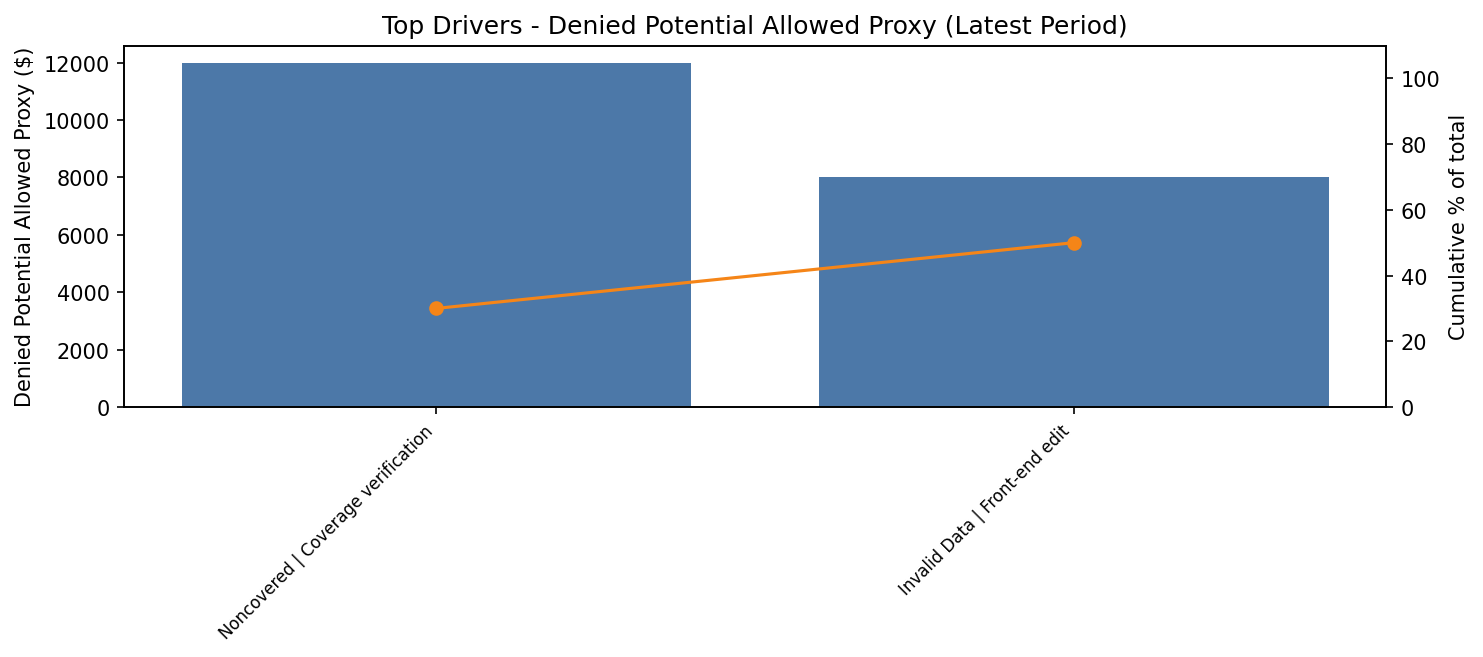
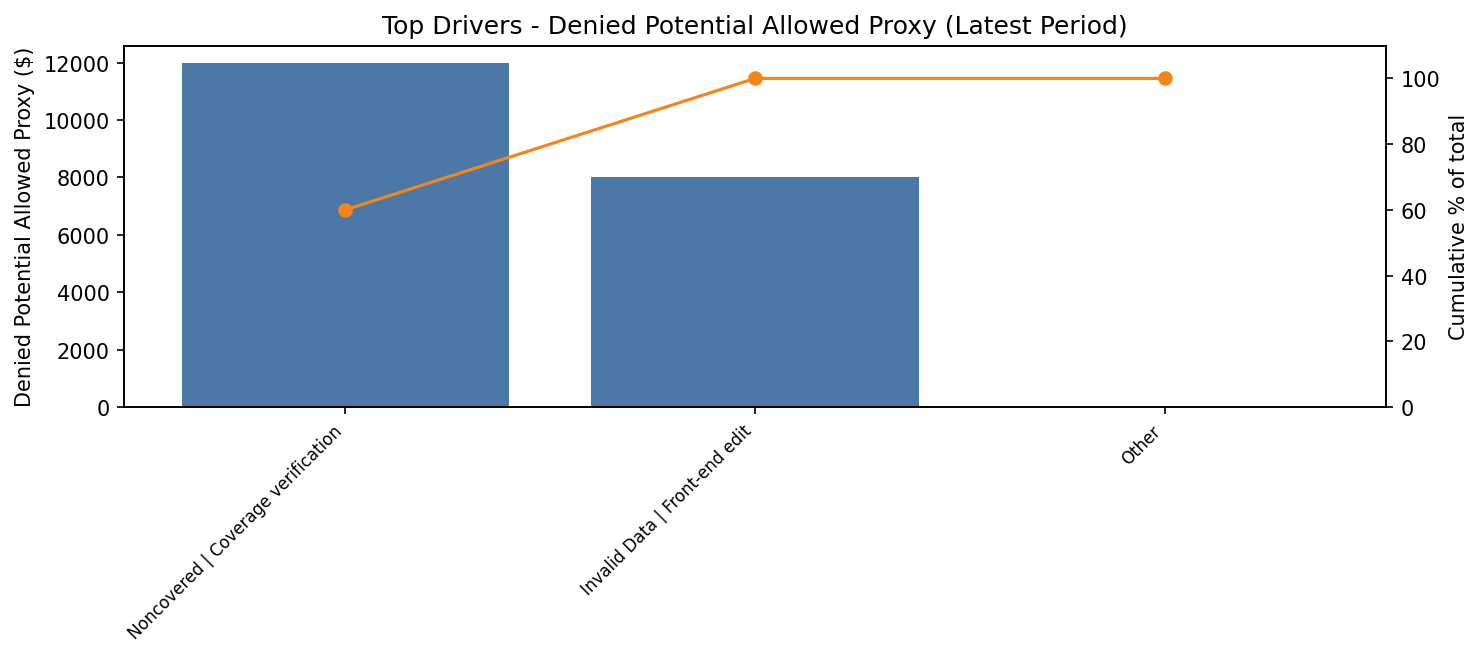
AN-RCM: truth stamp + triage status + pareto other + workqueue framing + case study one-pager

diff --git a/docs/executive_summary.md b/docs/executive_summary.md
@@ -1,25 +1,32 @@
 # Executive Summary (Latest Complete + Mature Week)
-Decision: Hold queue expansion; validate mix shift before actioning capacity.
-Confidence: Low - mix stability flagged, partial-week present, only 12 complete weeks of history.
+Decision: Hold queue expansion; validate volume shift before actioning capacity.
+Status: LIMITED_CONTEXT
+Reason: volume shift flagged (>15% vs rolling 8-week median); partial-week risk HIGH (5,612 vs 8,171, 68.7%); history tier 12w (LIMITED_CONTEXT); comparator present
+When LIMITED_CONTEXT: take reversible actions (validate, segment, triage) and defer staffing/process changes until comparator validity is confirmed.
+Partial-week risk: HIGH (5,612 vs 8,171, 68.7%)
+## Truth Stamp
+Anchor (week definition): Service date (clinical perspective).
+Maturity (LMW): We report only the latest complete week selected by the upstream "mature-only" filter; partial/incomplete weeks are excluded from KPIs and flagged when present.
+Interpretation note: Service-date trends reflect care timing and coding; posting-date trends may differ.
 What changed:
 - Observed Paid down $57.6K WoW
 - Payer Allowed down $55.1K WoW
 - Denial rate 13.4% (Delta +0.9pp)
 So what:
-- Mix instability plus partial-week activity make WoW signal fragile; treat KPIs as directional only.
+- Volume shift plus partial-week risk make WoW signal fragile; treat KPIs as directional only.
 Next 7 days:
-- Analytics owner: run NB-04 driver pareto; output: top contributors + concentration share.
-- Ops owner: hold queue expansion; output: capacity decision memo after mix validation.
-- RevCycle lead: review partial-week volume and comparator validity; output: go/no-go on queue expansion.
+- Analytics/BI: run NB-04 driver pareto; output: top contributors + concentration share.
+- Denials Management: hold queue expansion; output: capacity decision memo after volume validation.
+- Billing Ops: review partial-week volume and comparator validity; output: go/no-go on queue expansion.
 ## Data Stamp (Receipt)
 Model as_of_date (from marts): 2026-01-07
 Anchor week: 2010-12-20
 Comparator: 2010-12-13
 Included weeks: complete-week only (DS1)
 Service timeline (complete weeks): 2010-10-04 to 2010-12-20
+History tier: 12 complete weeks (LIMITED_CONTEXT)
 Maturity: 60
 Mix stability: CHECK SEGMENTS - Volume shift: Claim count 20.9% vs 8-week median
-History available: 12 complete weeks (target 52).
 ## Partial Week Banner
 WARNING: Partial-week activity detected (Start: 2010-12-27, Claims: 5,612).
 Exec KPIs and trends reflect complete + mature weeks only. Partial-week is excluded from KPI comparisons.
@@ -44,7 +51,7 @@ Trends include 4-week rolling average to reduce volatility.
 - Complete-week logic uses DS1 is_complete_week
 - Maturity gating is enforced upstream; report uses mart outputs
 - Proxy metric is directional ranking, not guaranteed recovery
-- Mix stability threshold: deviation >15% vs baseline median triggers "CHECK SEGMENTS"
+- Volume shift flagged when claim volume deviates >15% vs rolling 8-week median
 ## Data Notes
 - Synthetic dataset disclosure (CMS DE-SynPUF).
 - No protected health information (PHI).

diff --git a/docs/decision_memo_latest_complete_week.md b/docs/decision_memo_latest_complete_week.md
@@ -1,21 +1,26 @@
 # Decision Memo - Exec Overview (Latest Complete + Mature Week)
 
 ## Decision
-Decision: Hold queue expansion; validate mix shift before actioning capacity.
+Decision: Hold queue expansion; validate volume shift before actioning capacity.
+
+Status: LIMITED_CONTEXT
+Reason: volume shift flagged (>15% vs rolling 8-week median); partial-week risk HIGH (5,612 vs 8,171, 68.7%); history tier 12w (LIMITED_CONTEXT); comparator present
+When LIMITED_CONTEXT: take reversible actions (validate, segment, triage) and defer staffing/process changes until comparator validity is confirmed.
+Partial-week risk: HIGH (5,612 vs 8,171, 68.7%)
+
+## Truth Stamp
+Anchor (week definition): Service date (clinical perspective).
+Maturity (LMW): We report only the latest complete week selected by the upstream "mature-only" filter; partial/incomplete weeks are excluded from KPIs and flagged when present.
+Interpretation note: Service-date trends reflect care timing and coding; posting-date trends may differ.
 
 ## Why
 - Observed Paid down $57.6K WoW
 - Denial Rate 13.4% (Delta +0.9pp)
 
-## Options + tradeoffs
-- Option A (Hold + investigate): choose when mix stability flagged or partial-week present or comparator missing or history < 52; tradeoff is slower throughput until mix is validated.
-- Option B (Proceed to queue): choose when mix stability is OK, no partial-week activity, comparator present, and history is sufficient; tradeoff is exposure to false positives if instability emerges.
-- Option C (Escalate): choose when mix is CHECK SEGMENTS and partial-week present in the same week, or when comparator is missing and denial rate is rising; tradeoff is delaying queue until drivers are confirmed.
-
-## Owner checklist + outputs
-- Analytics owner: run NB-04 drivers; output: top contributors and concentration for this period.
-- Ops owner: decide queue capacity hold or release; output: capacity decision memo.
-- RevCycle lead: validate partial-week effect and comparator validity; output: go/no-go for NB-05.
+## Options (exec choices, 7-day)
+- Validate (24-48h): Analytics/BI + Billing Ops; output: segment deltas + maturity/comparator check.
+- Denial containment (1 week): Denials Management; output: top denial categories/payers + prevention candidates.
+- Underpayment probe / yield-gap (1 week): Contracting / Payment Integrity; output: suspect list + follow-up queue + heuristic recoverable estimate.
 
 ## Guardrails
 - Drivers show contribution/composition, not causality.
@@ -30,4 +35,5 @@ Decision: Hold queue expansion; validate mix shift before actioning capacity.
 - Mix stability: CHECK SEGMENTS - Volume shift: Claim count 20.9% vs 8-week median
 
 ## Interpretation status (operational)
-- Interpretation status: INVESTIGATE - mix stability flagged; partial-week present; only 12 complete weeks of history
+Status: LIMITED_CONTEXT
+Reason: volume shift flagged (>15% vs rolling 8-week median); partial-week risk HIGH (5,612 vs 8,171, 68.7%); history tier 12w (LIMITED_CONTEXT); comparator present

diff --git a/docs/story/nb03_exec_overview.md b/docs/story/nb03_exec_overview.md
@@ -3,15 +3,18 @@
 ## What this is
 A weekly exec-safe snapshot using marts-only DS0/DS1 (complete + mature weeks). No causal claims.
 
-Decision lever: If INVESTIGATE, resolve mix/volume shifts before allocating workqueue capacity.
+## Truth Stamp
+Anchor (week definition): Service date (clinical perspective).
+Maturity (LMW): We report only the latest complete week selected by the upstream "mature-only" filter; partial/incomplete weeks are excluded from KPIs and flagged when present.
+Interpretation note: Service-date trends reflect care timing and coding; posting-date trends may differ.
 
-## Decision router (10-second rule)
+## Triage path (10-second rule)
 If any trigger below is present: INVESTIGATE -> go to NB-04. If none: STABLE -> go to NB-05.
 Triggers:
-- Mix stability flagged (mix shift >15% vs baseline median)
-- Partial-week present
+- Volume shift flagged when claim volume deviates >15% vs rolling 8-week median
+- Partial-week activity present
 - Comparator missing
-- History available < 52 complete weeks (target 52)
+- History tier: <13 LIMITED_CONTEXT; 13-26 directional (investigate if volume shift or partial-week risk); >=26 STABLE eligible
 
 ## Quick links
 - Executive summary: ../executive_summary.md
@@ -22,11 +25,10 @@ Triggers:
 - Anchor week: 2010-12-20
 - Comparator: 2010-12-13
 
-## Confidence
-Confidence: Low - mix stability flagged, partial-week present, only 12 complete weeks of history.
-
-## Interpretation status
-Current status: INVESTIGATE (mix stability flagged; partial-week present; only 12 complete weeks of history).
+Status: LIMITED_CONTEXT
+Reason: volume shift flagged (>15% vs rolling 8-week median); partial-week risk HIGH (5,612 vs 8,171, 68.7%); history tier 12w (LIMITED_CONTEXT); comparator present
+When LIMITED_CONTEXT: take reversible actions (validate, segment, triage) and defer staffing/process changes until comparator validity is confirmed.
+Partial-week risk: HIGH (5,612 vs 8,171, 68.7%)
 
 ## KPI strip
 ![KPI Strip](../images/nb03_kpi_strip.png)
@@ -35,6 +37,7 @@ Current status: INVESTIGATE (mix stability flagged; partial-week present; only 1
 ![Trends Grid](../images/nb03_trends_grid.png)
 
 ## What to do next in 10 minutes
-- Open the executive summary and confirm the decision router triggers.
-- If INVESTIGATE: run NB-04 and capture top contributors + concentration.
+- Open the executive summary and confirm triage path triggers.
+- If INVESTIGATE or LIMITED_CONTEXT: run NB-04 and capture top contributors + concentration + Other bucket.
 - If STABLE: run NB-05 and select a capacity target for this week.
+Next: quantify top contributors (NB-04) before scaling action.

diff --git a/docs/story/nb04_driver_pareto.md b/docs/story/nb04_driver_pareto.md
@@ -1,9 +1,12 @@
 # Drivers (NB-04) - Pareto of contributors (marts-only)
 
 ## Concentration
-Top driver accounts for 60.0% of total contribution (based on denied_potential_allowed_proxy_amt).
-Top 5 contributors account for 100.0% of total contribution (based on denied_potential_allowed_proxy_amt).
-Proof: top5_sum=20000.0, total_sum=20000.0, share=100.0%.
+Drivers shown: 2 categories.
+Top driver = 60.0% of total contribution (based on denied_potential_allowed_proxy_amt).
+Top 5 = 100.0% of total contribution (based on denied_potential_allowed_proxy_amt).
+Other = 0.0% (no remaining categories).
+Proof: top5_sum=20000.0, other_sum=0.0, total_sum=20000.0.
+Note: Synthetic dataset + limited category cardinality can yield full concentration; Other is included for transparency and may be 0 when categories are exhaustive in this sample.
 
 ## Interpretation guardrail
 Contribution/composition, not causality.
@@ -12,5 +15,5 @@ Contribution/composition, not causality.
 ![Driver Pareto](../images/nb04_driver_pareto.png)
 
 ## Action path
-- If top driver share > 60% (dominated): verify the top driver workflow before scaling.
-- If top driver share <= 60% (distributed): validate mix across top 5 drivers and prioritize consistent contributors.
+- If top driver share >= 60% (dominated): verify the top denial group + next-best-action workflow before scaling.
+- If top driver share < 60% (distributed): validate top 5 across segments and prioritize consistent contributors.

diff --git a/docs/CASE_STUDY_ONE_PAGER.md b/docs/CASE_STUDY_ONE_PAGER.md
@@ -1,0 +1,24 @@
+# Case Study - Weekly RCM Executive Brief (Overview -> Drivers -> Workqueue)
+
+## Problem
+Weekly KPI movement needs fast triage without false certainty.
+
+## Method
+Exec triage path -> Drivers -> Ops-ready worklist (marts-only, guardrails).
+
+## Findings (latest complete+mature week)
+- Paid down $57.6K WoW
+- Allowed down $55.1K WoW
+- Denial rate 13.4% (+0.9pp)
+- Status + Reason: LIMITED_CONTEXT - volume shift flagged; partial-week risk HIGH; history tier 12w; comparator present
+
+## Decision
+Hold queue expansion and run reversible validation before capacity changes.
+
+## Decision support (3 options max)
+A - Validate/Segment (Owner: Analyst + Billing Ops) -> output in 48h
+B - Denial containment (Owner: Denials) -> output in 7d
+C - Underpayment probe (Owner: Contracting/Payment Ops) -> output in 7d
+
+## Limitations
+Synthetic; no remit/EOB; proxy metrics; short history; anchor perspective; no causal claims.

diff --git a/README.md b/README.md
@@ -11,9 +11,11 @@
 
 **Quick Links:** [📊 View Dashboard](docs/images/tab1.png) • [🎯 STAR Impact](portfolio/STAR_IMPACT_SUMMARY.md) • [🔧 Setup Guide](docs/REPRO_STEPS.md) • [📖 Metric Definitions](docs/01_metric_definitions.md)
 
-## Start Here (Visual-First)
-Open: `docs/story/README.md`  
-This is the recruiter-friendly walkthrough: Trust Layer -> Exec Overview -> Drivers -> Workqueue.
+## Start Here (2-minute path)
+- docs/CASE_STUDY_ONE_PAGER.md
+- docs/executive_summary.md
+- docs/decision_memo_latest_complete_week.md
+- docs/story/README.md
 
 ## Architecture (what this project demonstrates)
 Production path: BigQuery (warehouse) -> dbt (marts) -> Tableau dashboards + Jupyter storytelling notebooks.

diff --git a/docs/workqueue_memo_latest_week.md b/docs/workqueue_memo_latest_week.md
@@ -12,6 +12,8 @@ This is a prioritization demo built from DS3 marts outputs. It is not a guarante
 
 ## Queue preview (Top N)
 Top 25 at-risk: $52,910 (0.05% of total $115,112,420)
+Queue is sized for throughput + learning loop; dollar share is not the only objective (cycle time + prevention).
+Heuristic recoverable (Top 25) = $1,450 (at_risk * p_denial * 0.2)
 ![Workqueue Top N](images/nb05_workqueue_top25.png)
 
 ## How to use this

diff --git a/docs/story/nb05_workqueue.md b/docs/story/nb05_workqueue.md
@@ -8,6 +8,8 @@ Operational prioritization demo using proxy ranking (not guaranteed recovery).
 
 ## Context
 Top 25 at-risk: $52,910 (0.05% of total $115,112,420)
+Queue is sized for throughput + learning loop; dollar share is not the only objective (cycle time + prevention).
+Heuristic recoverable (Top 25) = $1,450 (at_risk * p_denial * 0.2)
 
 ## Capacity framing
 | Capacity (items/day) | Days for Top-25 |
